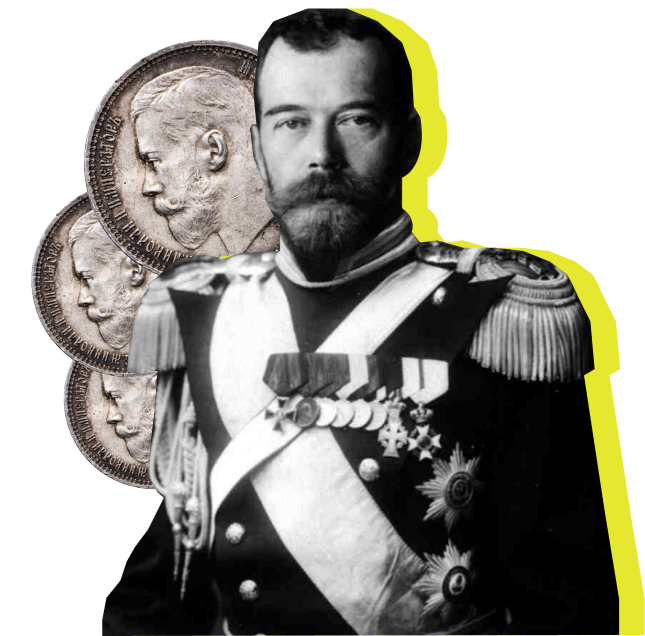
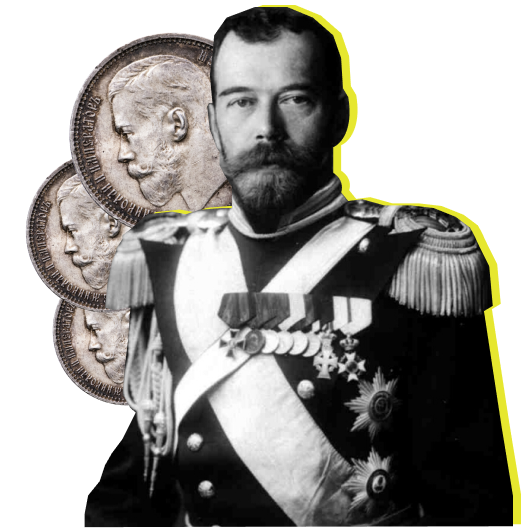
timeline img

diff --git a/_layouts/timeline.html b/_layouts/timeline.html
@@ -127,7 +127,7 @@ layout: wrapper
                 <h1 class="dec">14</h1>
             </div>
             <div class="timeline-image">
-                <img src="{{ '/assets/images/1914.png' | relative_url }}" alt="">
+                <img style="margin-bottom: -0.2em;" src="{{ '/assets/images/1914.png' | relative_url }}" alt="">
             </div>    
         </div>
     </div>
@@ -401,16 +401,16 @@ layout: wrapper
     <div class="timeline-middle">
         <div class="timeline-point"></div>
     </div>
-    <div class="timeline-component-img">
-        <div class="timeline-container timeline-container-right">
-            <div class="timeline-year">
+    <div class="timeline-component-img" style="margin-left: 0em;">
+        <div class="timeline-container timeline-container-right" style="margin-left: 0em;">
+            <div class="timeline-year" style="margin-left: 2em;">
                 <div>
                     <h1>19</h1>
                     <h1 class="dec">91</h1>
                 </div>
             </div>
             <div class="timeline-image">
-                <img src="{{ '/assets/images/1991.png' | relative_url }}" alt="">
+                <img style="width: 200%; margin-right: -2em" src="{{ '/assets/images/1991.png' | relative_url }}" alt="">
             </div>    
         </div>
     </div>
